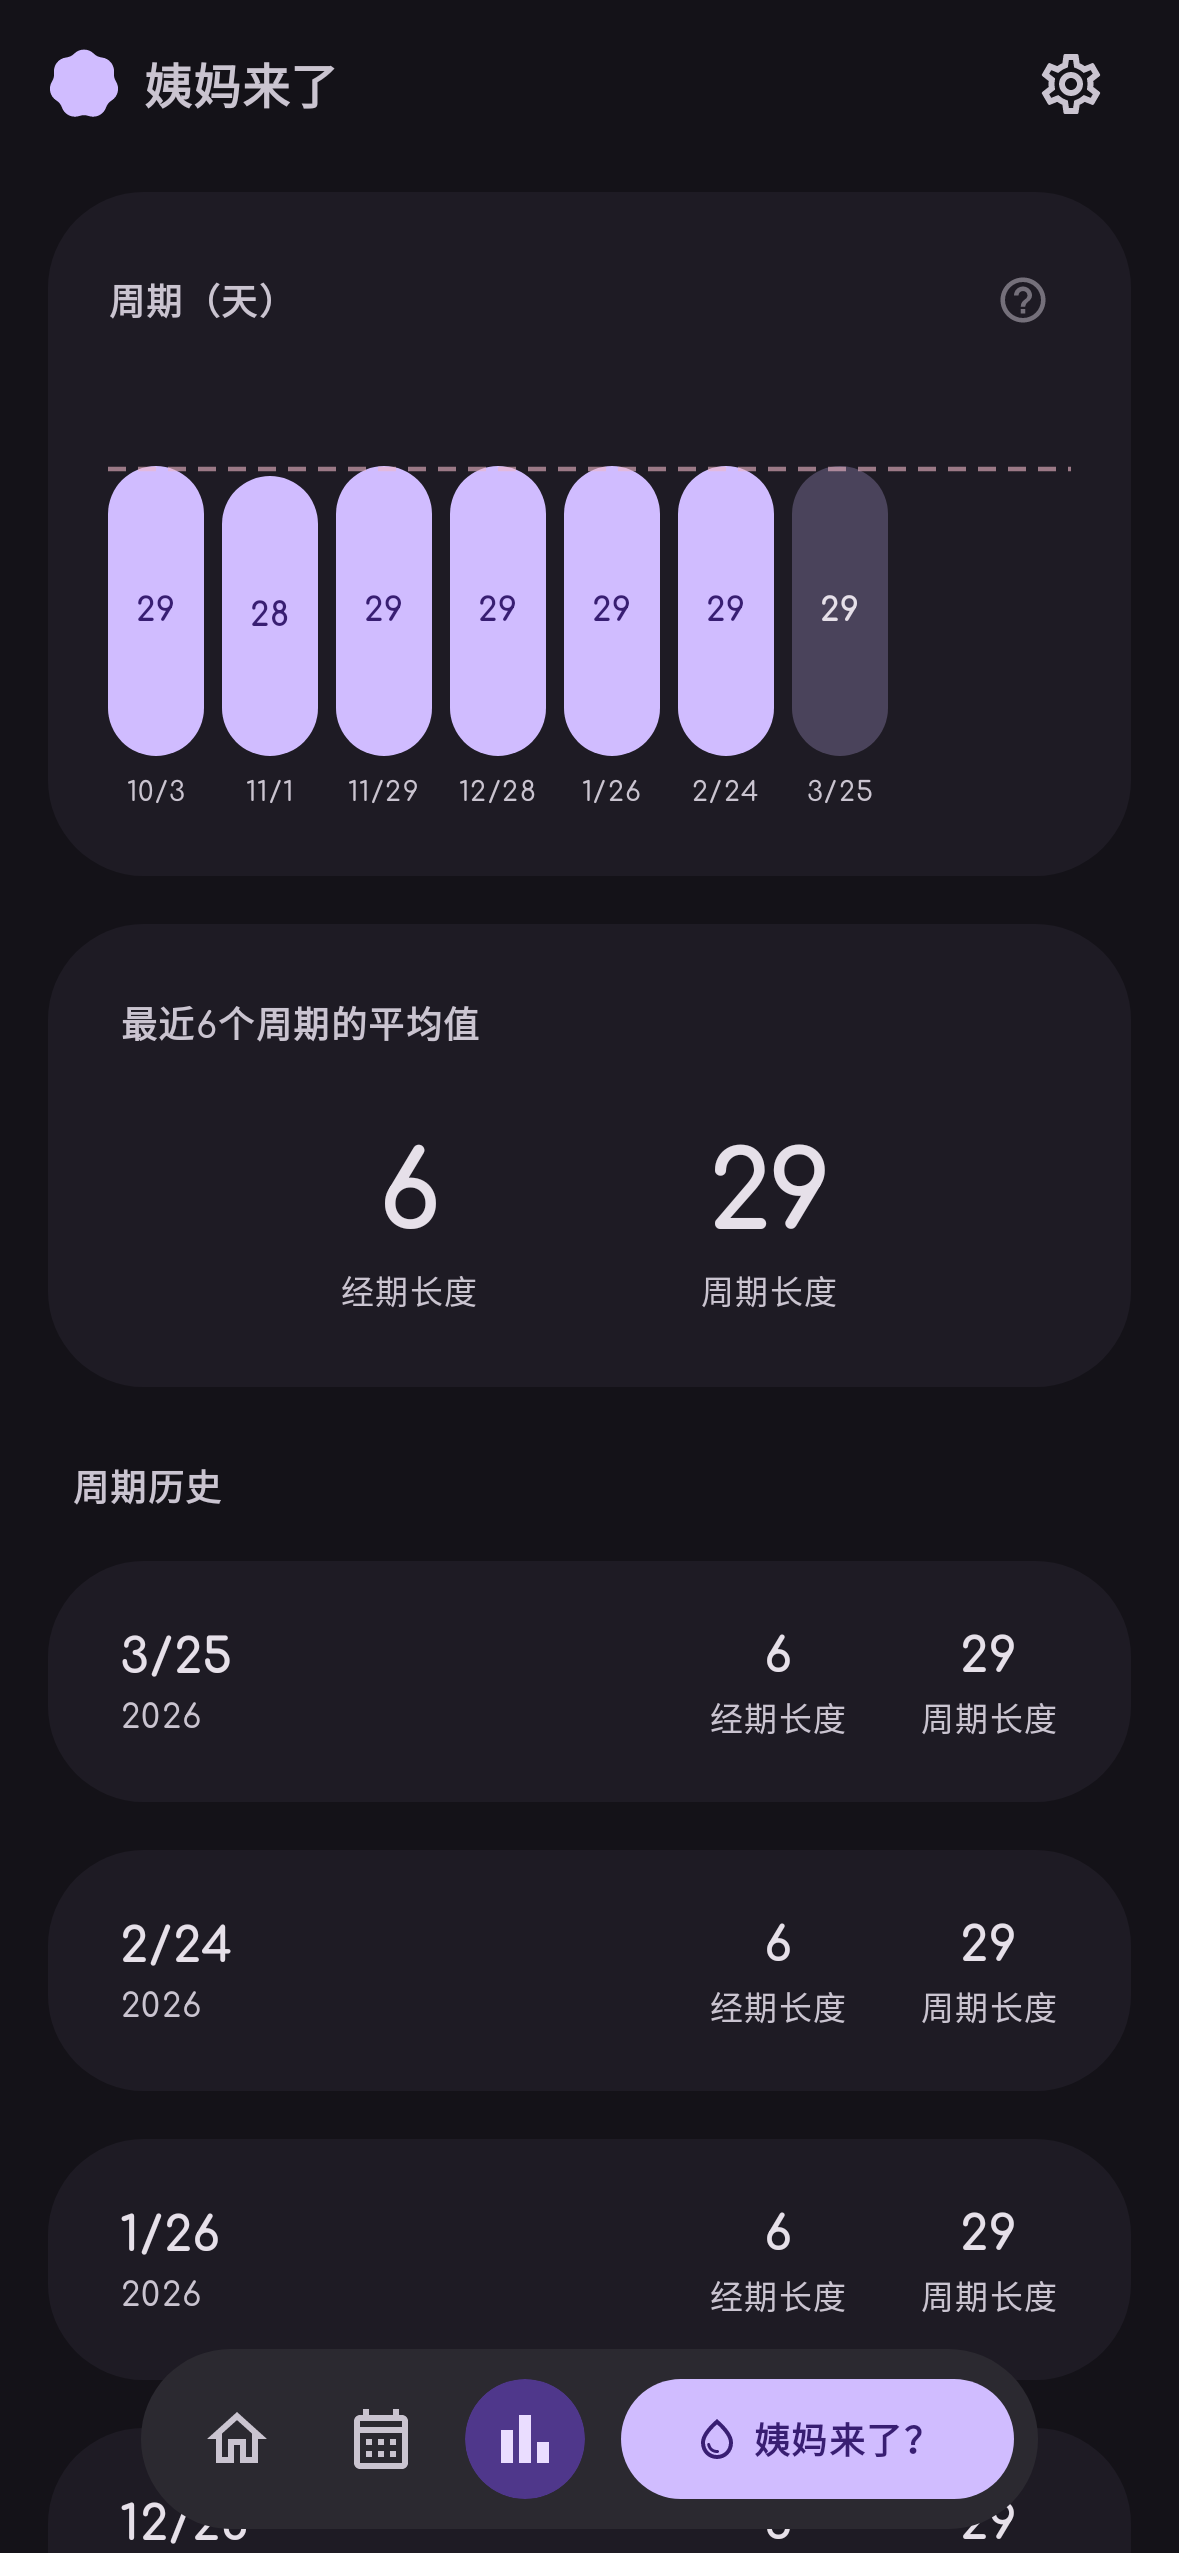
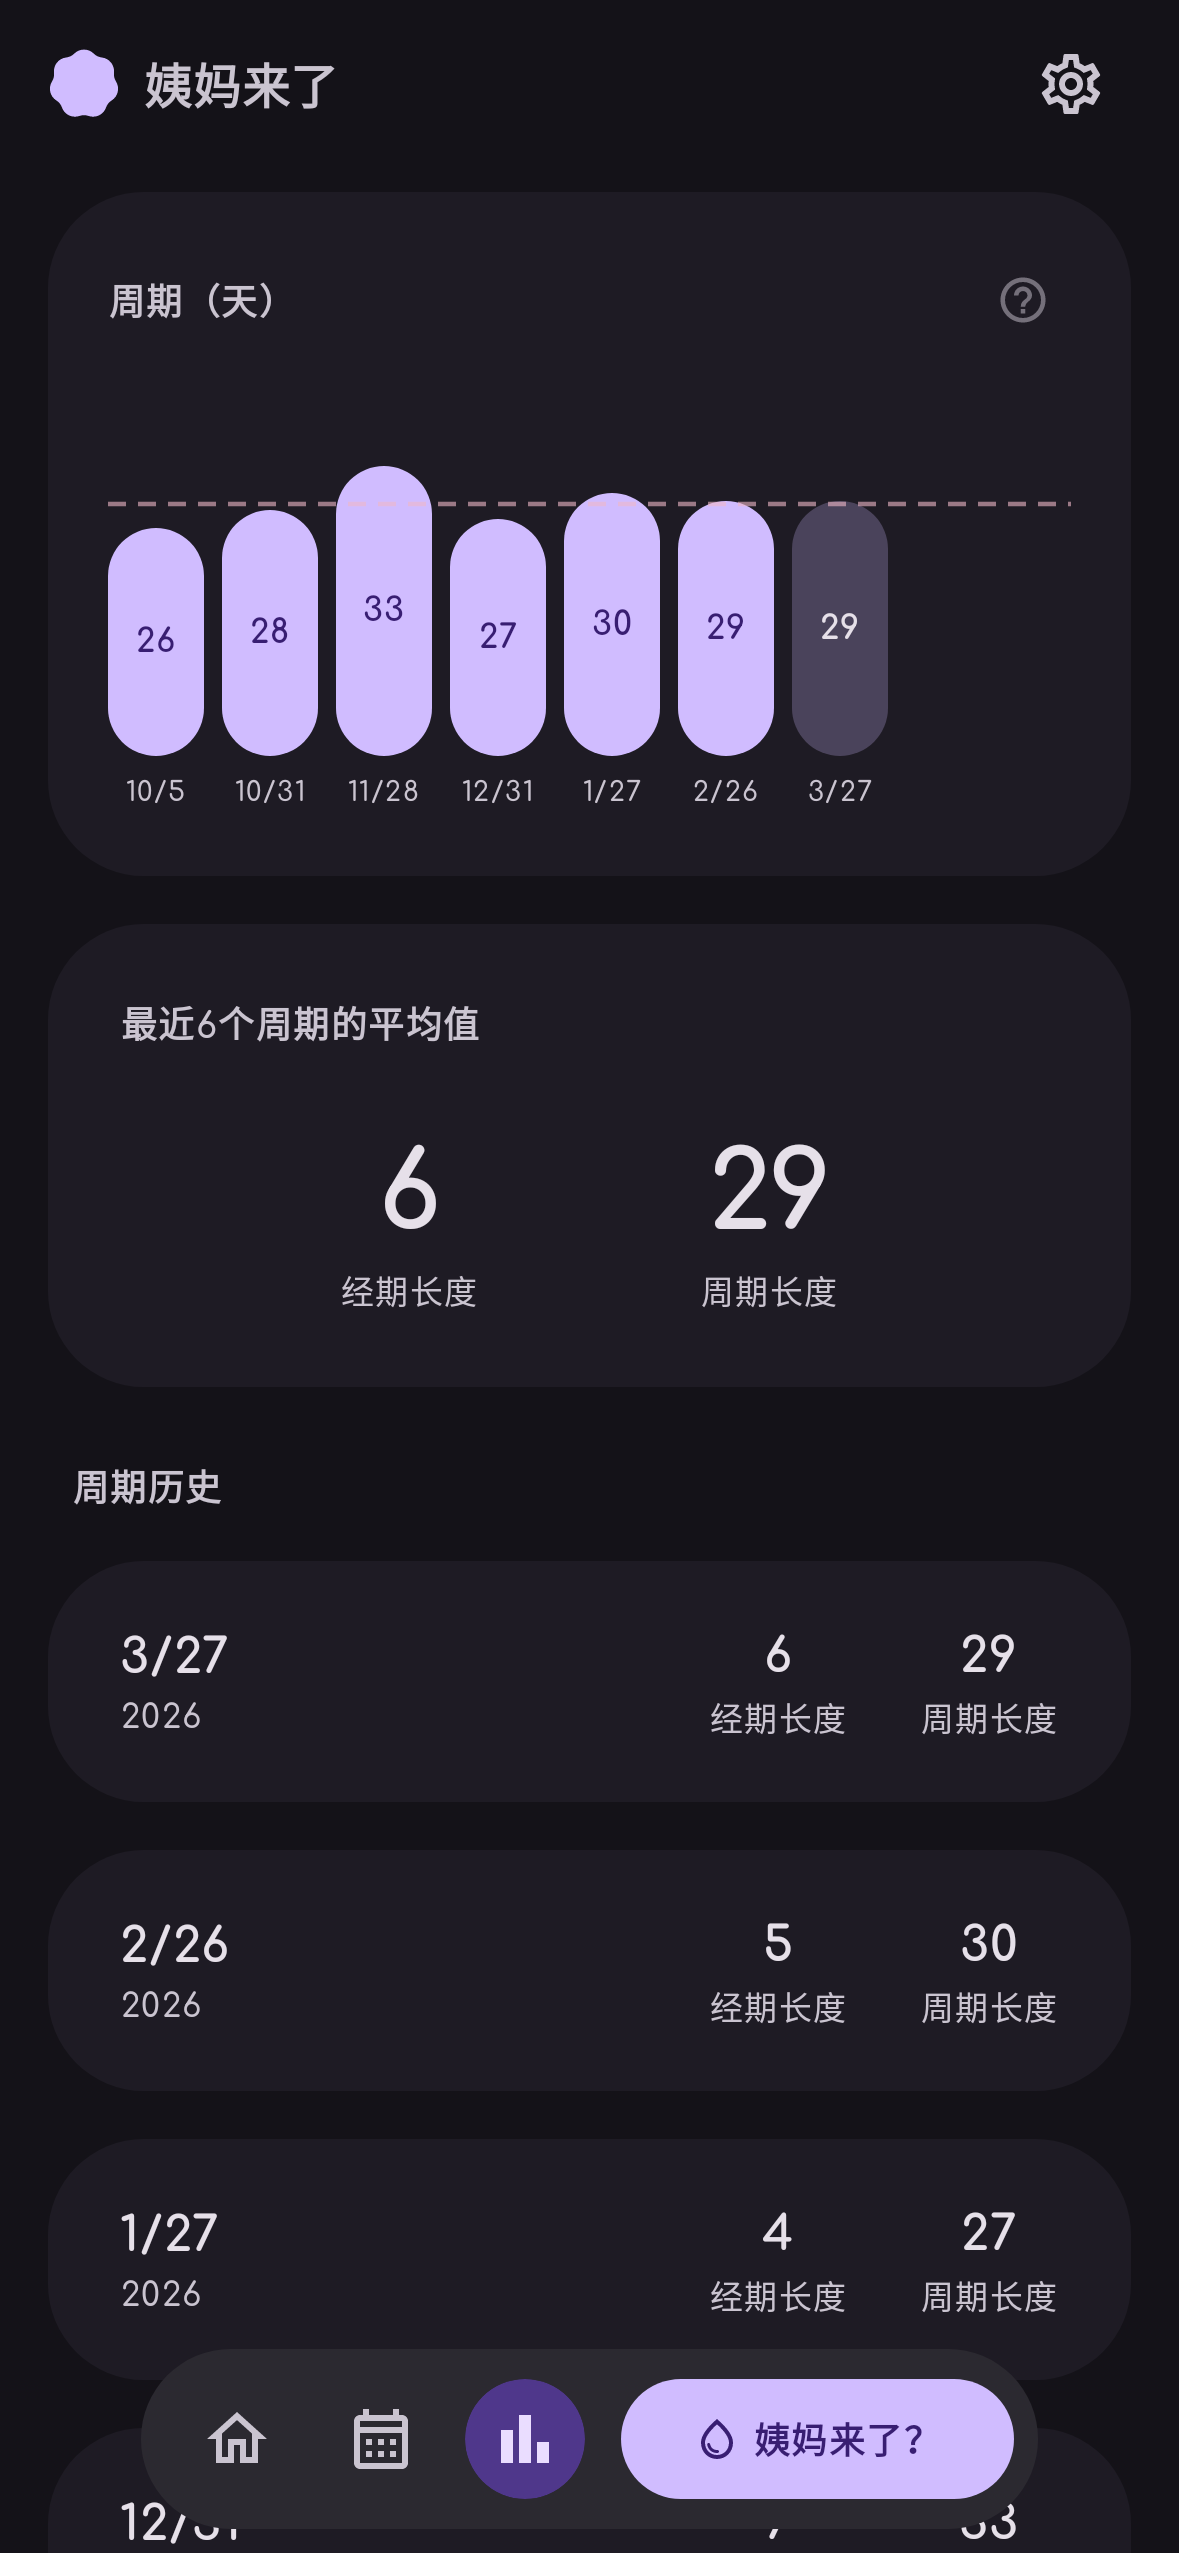
Vary test data for more realistic screenshot charts
Cycle lengths now range from 26-33 days and period durations from
4-7 days, producing visually distinct bar chart columns instead of
uniform heights.

diff --git a/composeApp/src/androidUnitTest/kotlin/com/haodong/yimalaile/fakes/FakeRecordsRepository.kt b/composeApp/src/androidUnitTest/kotlin/com/haodong/yimalaile/fakes/FakeRecordsRepository.kt
@@ -36,35 +36,38 @@ class FakeRecordsRepository(
  * intensities, moods, and daily notes.
  */
 fun createBeautifulTestData(): List<MenstrualRecord> {
-    val now = 1_712_400_000_000L // ~April 2024
+    val now = 1_712_400_000_000L
 
-    // Record 1: ~6 months ago
-    val r1Start = LocalDate(2025, 10, 3)
+    // Varied cycle lengths: 26, 31, 28, 33, 27, 30 days
+    // Varied period durations: 4, 6, 5, 7, 4, 5, 6 days
+
+    // Record 1: cycle=26d, period=4d
+    val r1Start = LocalDate(2025, 10, 5)
     val r1End = LocalDate(2025, 10, 8)
 
-    // Record 2: ~5 months ago
-    val r2Start = LocalDate(2025, 11, 1)
+    // Record 2: cycle=31d, period=6d
+    val r2Start = LocalDate(2025, 10, 31)
     val r2End = LocalDate(2025, 11, 5)
 
-    // Record 3: ~4 months ago
-    val r3Start = LocalDate(2025, 11, 29)
-    val r3End = LocalDate(2025, 12, 4)
+    // Record 3: cycle=28d, period=5d
+    val r3Start = LocalDate(2025, 11, 28)
+    val r3End = LocalDate(2025, 12, 2)
 
-    // Record 4: ~3 months ago
-    val r4Start = LocalDate(2025, 12, 28)
-    val r4End = LocalDate(2026, 1, 2)
+    // Record 4: cycle=33d, period=7d (longer cycle + heavier period)
+    val r4Start = LocalDate(2025, 12, 31)
+    val r4End = LocalDate(2026, 1, 6)
 
-    // Record 5: ~2 months ago
-    val r5Start = LocalDate(2026, 1, 26)
-    val r5End = LocalDate(2026, 1, 31)
+    // Record 5: cycle=27d, period=4d (short & light)
+    val r5Start = LocalDate(2026, 1, 27)
+    val r5End = LocalDate(2026, 1, 30)
 
-    // Record 6: ~1 month ago
-    val r6Start = LocalDate(2026, 2, 24)
-    val r6End = LocalDate(2026, 3, 1)
+    // Record 6: cycle=30d, period=5d
+    val r6Start = LocalDate(2026, 2, 26)
+    val r6End = LocalDate(2026, 3, 2)
 
-    // Record 7: most recent completed
-    val r7Start = LocalDate(2026, 3, 25)
-    val r7End = LocalDate(2026, 3, 30)
+    // Record 7: most recent, period=6d
+    val r7Start = LocalDate(2026, 3, 27)
+    val r7End = LocalDate(2026, 4, 1)
 
     return listOf(
         createRecord("r1", r1Start, r1End, now, periodPattern = 0),
